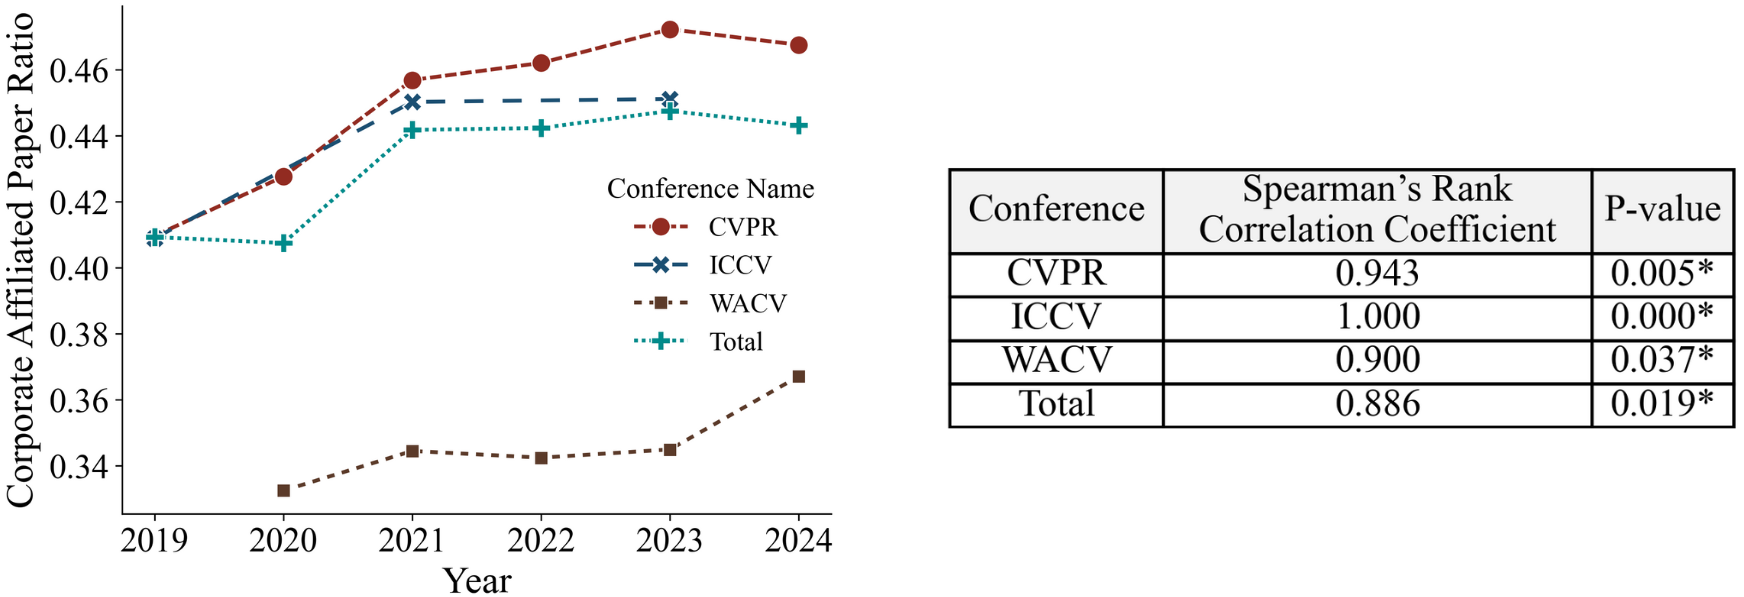
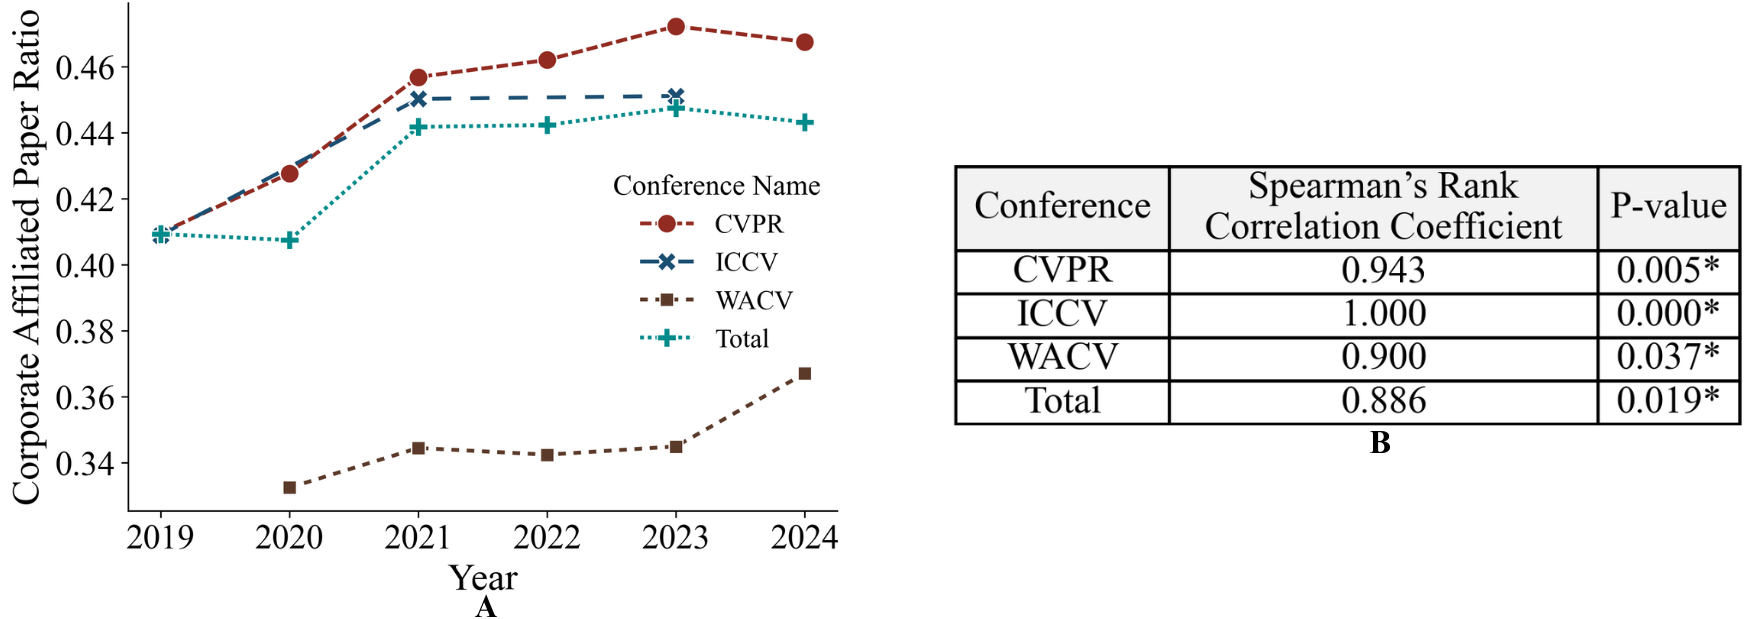
report edited

diff --git a/report/Project_Template.tex b/report/Project_Template.tex
@@ -87,7 +87,7 @@ We first analyze trends in corporate-affiliated publications to assess industry 
 \vspace{-7pt}
 This study focuses on the most influential computer vision conferences that attract high-quality submissions from academia and industry. CVPR (held annually) and ICCV (biennial), ranked \#1 and \#2 on Google Scholar Best Computer Science Conferences in Computer Vision list [3], are ideal venues for analyzing corporate and academic contributions. WACV (\#9) is included for its emphasis on applied research, contrasting with the more theoretical nature of CVPR and ICCV.
 
-We construct our dataset by extracting paper titles, authors, and affiliations using Paper Copilot GitHub [4]. Since CVPR, ICCV, and WACV proceedings are published on IEEE Xplore, we use paper titles to scrape their respective IEEE Xplore pages, collecting 
+We construct our dataset by extracting paper titles, authors, and affiliations using Paper Copilot GitHub [4]. Since CVPR, ICCV, and WACV proceedings are published on IEEE Xplore, we use paper titles to scrape their respective IEEE Xplore pages, collecting citation counts
 % \begin{figure}
 %     \noindent
 %     \hspace{-2mm}
@@ -132,7 +132,7 @@ We construct our dataset by extracting paper titles, authors, and affiliations u
     \vspace{-7pt} % Reduce space before next caption line
     \caption*{} % Non-numbered caption
     \label{tab:corporate_size}
-    \vspace{-10pt} % Adjust space below the table
+    \vspace{-5pt} % Adjust space below the table
 \end{wraptable}
 
 
@@ -141,7 +141,7 @@ We construct our dataset by extracting paper titles, authors, and affiliations u
 \centering
 \includegraphics[width=.95\linewidth]{report/images/affiliation-combination.png}
 \caption{Illustration of different paper-author-affiliation relationships[1]. Authors with both corporate and academic affiliations have their contributions split proportionally. Papers with any corporate-affiliated authors are classified as corporate-affiliated, while those with $\geq$ 50\% corporate contributions are considered corporate-led.}
-\vspace{-10pt}
+\vspace{-15pt}
 % Authors with both corporate and academic affiliations have their contributions split proportionally. Papers with any corporate-affiliated authors are classified as corporate-affiliated, while those with $\geq$ 50\% corporate contributions are considered corporate-led.
 \label{fig:affiliation-combination}
 \vspace{-20pt}
@@ -243,11 +243,12 @@ To investigate whether corporate-affiliated research has gained influence at top
 \begin{figure}[ht]
     \centering
     \includegraphics[width=0.9\linewidth]{report/images/corporate_ratio_table.png}
-    \caption{The plot on the left shows an increasing trend (from 2019 to 2024) in corporate contributions, with CVPR and ICCV maintaining higher ratios compared to WACV and reaching record levels in corporate affiliation. The accompanying table on right presents Spearman’s rank correlation coefficients, all of which indicate strong positive correlations (coefficients exceeding 0.88) . Statistically significant values (p < 0.05) are marked with an asterisk (*).}
+    \vspace{-5pt}
+    \caption{(A) shows an increasing trend (from 2019 to 2024) in corporate contributions, with CVPR and ICCV maintaining higher ratios compared to WACV and reaching record levels in corporate affiliation. The accompanying table (B) presents Spearman’s rank correlation coefficients, all of which indicate strong positive correlations (coefficients exceeding 0.88) . Statistically significant values (p < 0.05) are marked with an asterisk (*).}
     \label{fig:corporate_ratio_graph}
     % \vspace{-5pt}
 \end{figure}
-\vspace{-18pt}
+\vspace{-17pt}
 \subsection{Citation Impact of Corporate-Affiliated Research}
 \vspace{-7pt}
 Beyond their increasing presence, corporate-affiliated papers must also be evaluated in terms of their impact. One widely accepted measure of research influence is citation count, which reflects the extent to which a paper shapes subsequent research. As illustrated in Figure \ref{fig:ieee_citations}, corporate-affiliated papers 
@@ -255,11 +256,11 @@ Beyond their increasing presence, corporate-affiliated papers must also be evalu
     \centering
     % \vspace{-10pt}
     \includegraphics[width=0.9\linewidth]{report/images/ieee_citations.png}
-    \caption{Absolute (A) and Kernel Density Estimate (B) Citation distributions of academic and corporate papers show that corporate papers tend to have a higher average number of citations and a wider spread in their citation counts. In contrast, academic papers are more numerous but are generally concentrated in lower citation ranges.}
+    \caption{Absolute (A) and Kernel Density Estimate (B) Citation distributions of academic and corporate papers show that corporate papers tend to have higher mean citations and a wider spread in their citation counts. In contrast, academic papers are more numerous but are generally concentrated in lower citation ranges.}
     \label{fig:ieee_citations}
     \vspace{-10pt}
 \end{figure}
-
+% \vspace{-5pt}
 exhibit higher average citation counts than academic papers, despite constituting a smaller proportion of total publications. While academic papers are more numerous, their citation distribution is concentrated in the lower ranges, indicating that many receive moderate attention. In contrast, corporate-affiliated papers have a broader citation distribution, suggesting that they are more likely to receive high citation counts. To formally test whether corporate papers have a significantly higher mean citation count ($\mu_2$) than academic papers ($\mu_1$), since the data is not normally distributed we conduct a Mann–Whitney U test[9] with a significance threshold of $\alpha = 0.05$. The null ($H_0$) and alternative ($H_\alpha$) hypotheses are as follows:
 \[
 H_0 = \mu_2 \leq \mu_1 (\mathrm{Corporate \ papers\ have \ a \ smaller \ or \ equal \ mean \ than \ academia \ papers})
